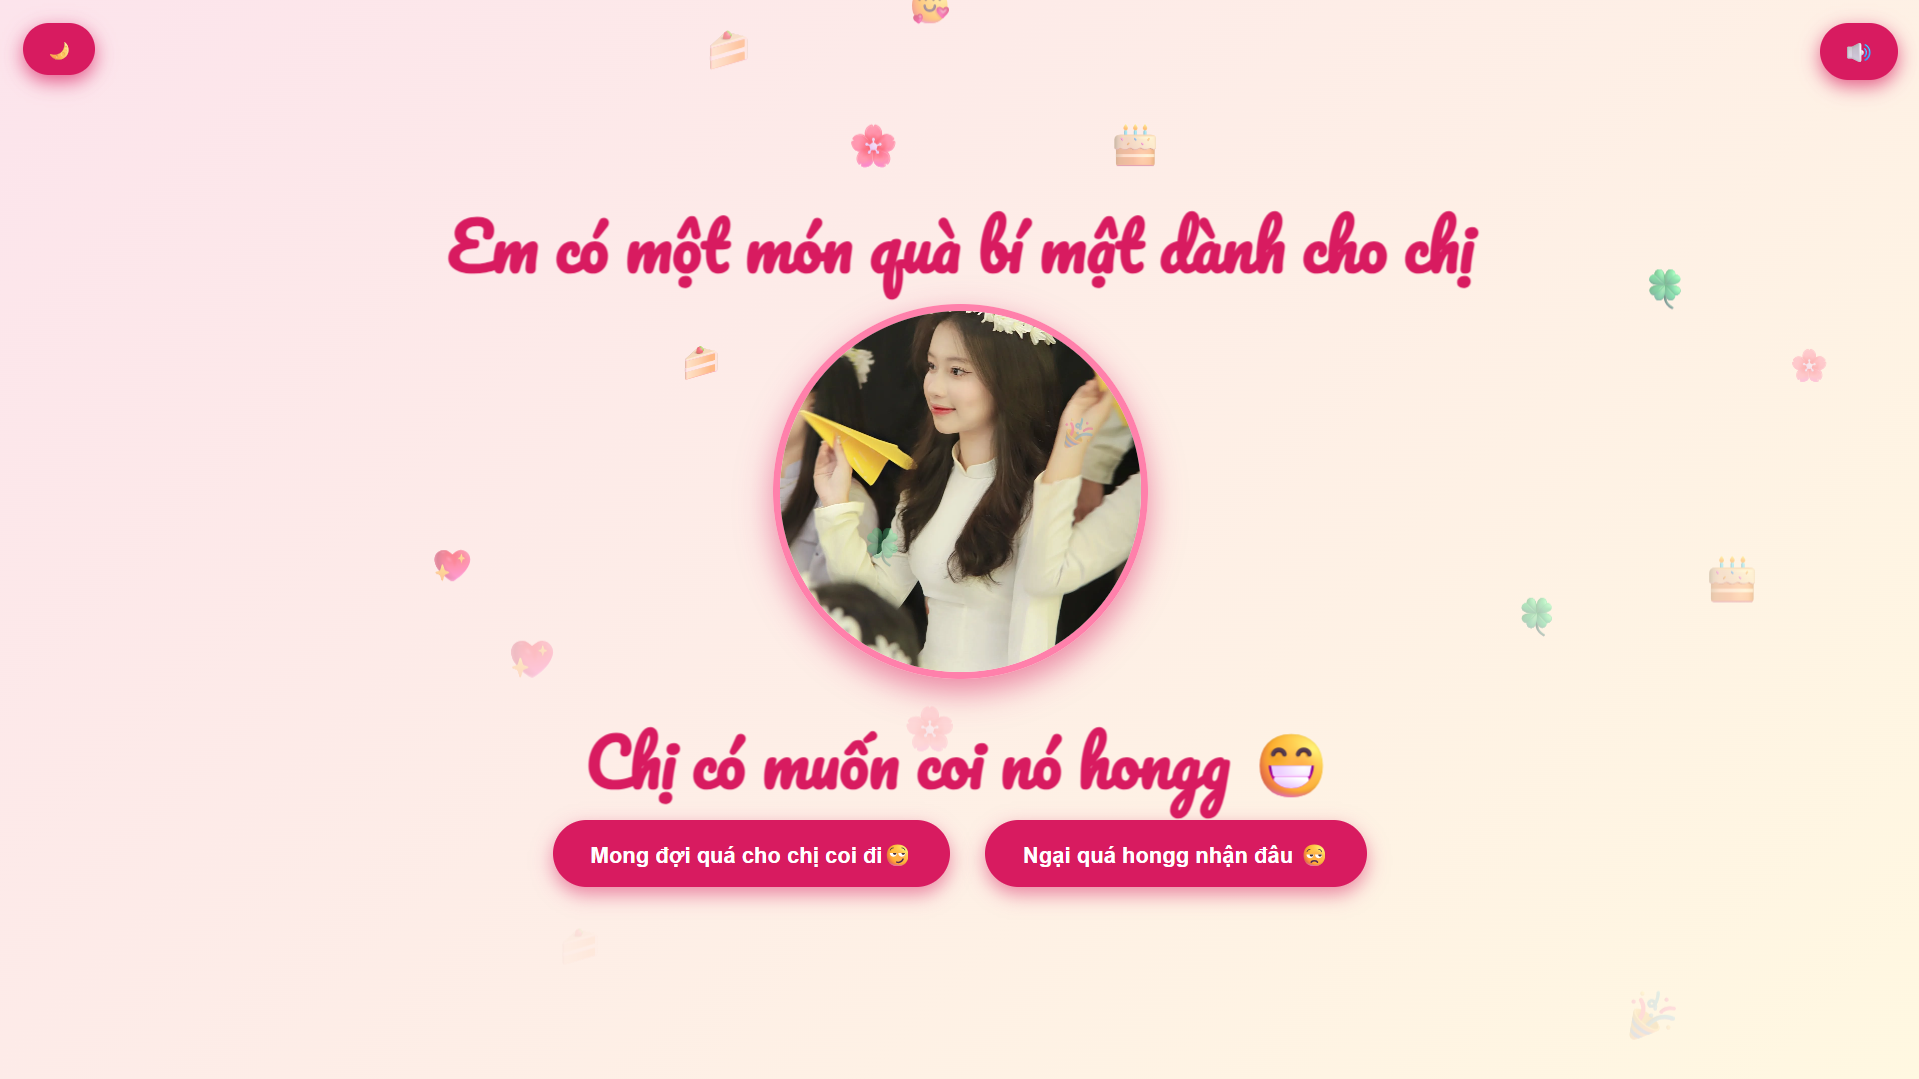
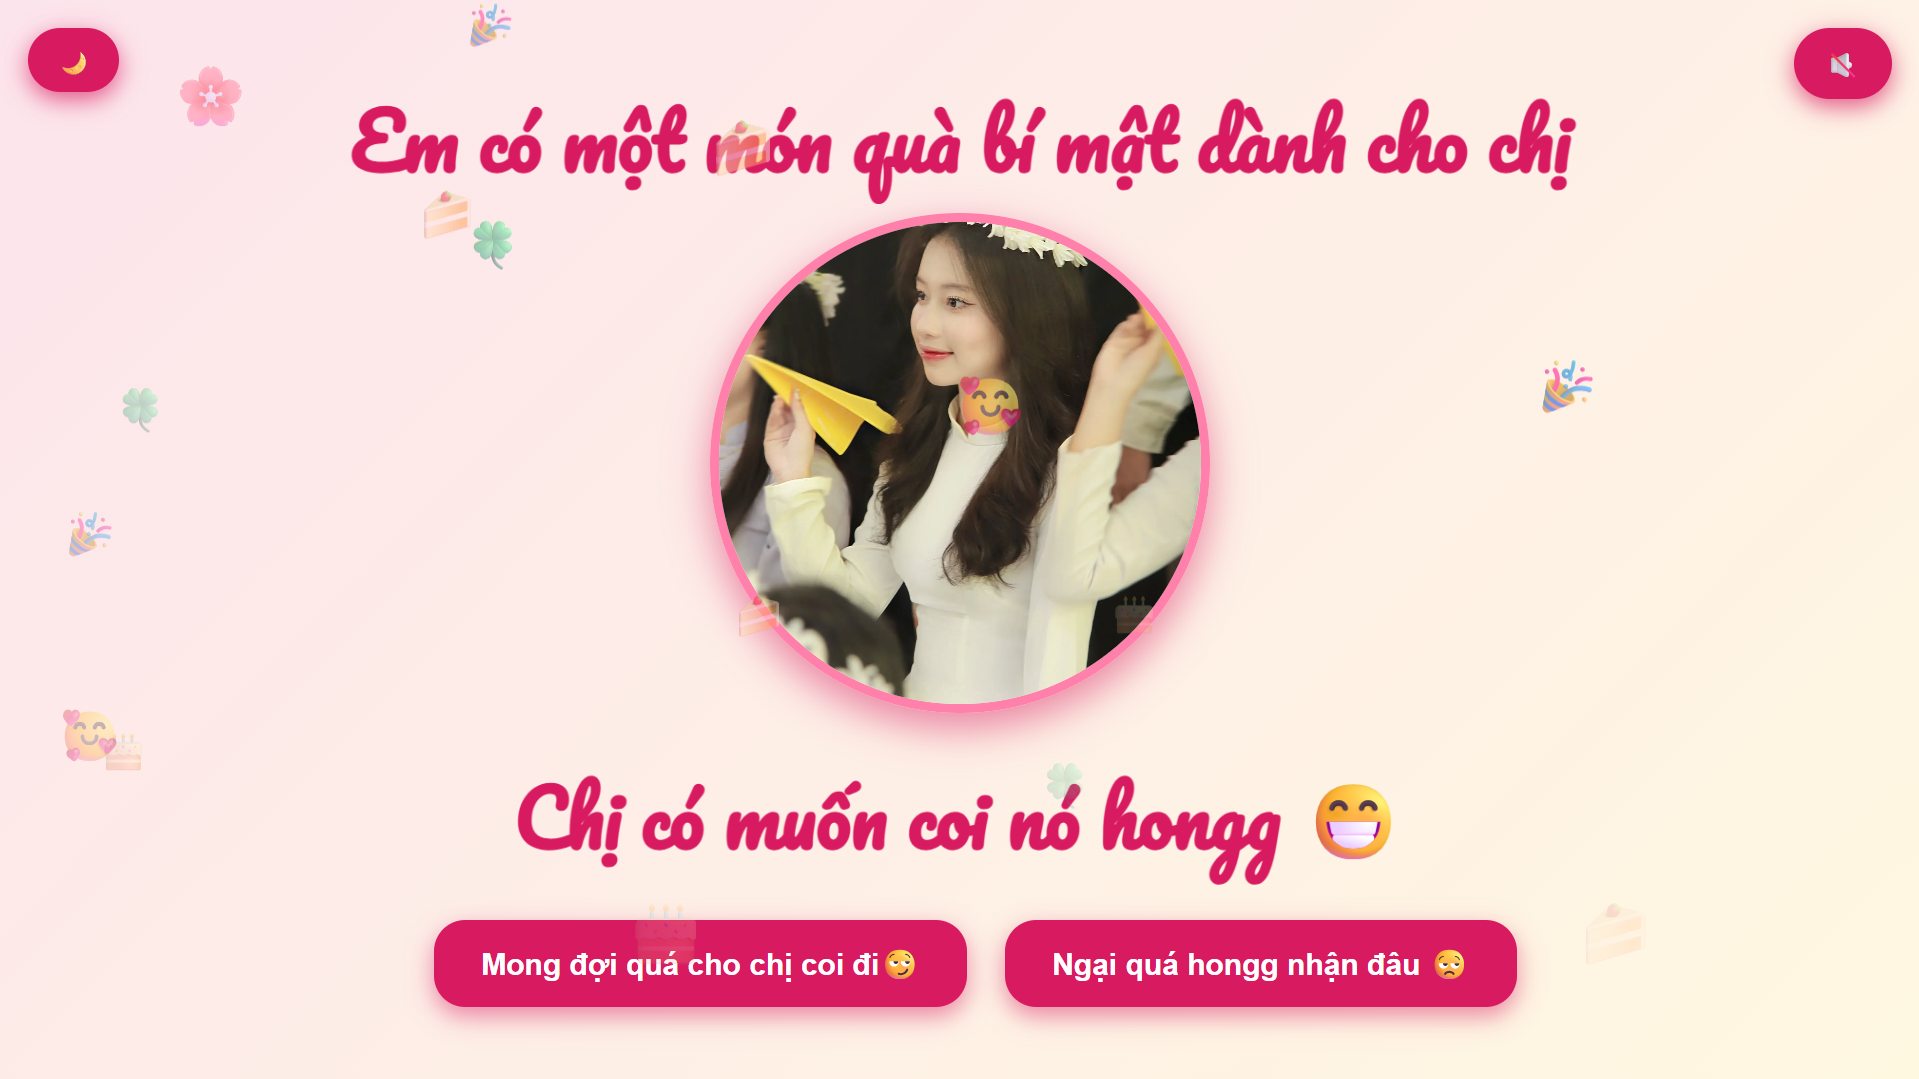
Update V4

diff --git a/style.css b/style.css
@@ -84,14 +84,14 @@ body.dark #typing-text {
 
 .btn {
   padding: 15px 30px;
-  font-size: 1.1rem;
+  font-size: 1.2rem;
   font-weight: 700;
   border: none;
-  border-radius: 30px;
+  border-radius: 20px;
   cursor: pointer;
   background: #d81b60;
   color: white;
-  margin-top: 20px;
+  margin-top: 1em;
   margin-bottom: 0px;
   margin-left: 20px;
   box-shadow: 0 6px 15px rgba(216, 27, 96, 0.5);
